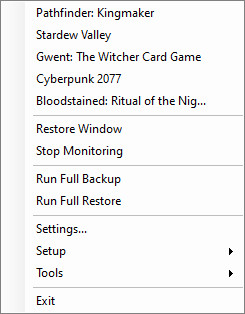
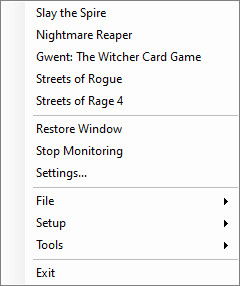
Updated out of date screenshots and some fixes

Changed region(s): [[0.1458, 0.0, 0.9917, 0.979], [0.9333, 0.7552, 0.9625, 0.8112]]

diff --git a/manual.html b/manual.html
@@ -33,7 +33,7 @@
             Game Backup Monitor v1.3.1 Manual
           </div>
           <div class="pageSectionContent">
-            <h3 class="notop">Updated May 13, 2022</h3>
+            <h3 class="notop">Updated May 14, 2022</h3>
             <h3>Important Notes:</h3>
             <p>An offline version of the manual is available <a href="https://github.com/Darthagnon/gbm-manual">here</a>.  The offline manual is kindly provided by <a href="https://github.com/Darthagnon">Darthagnon</a>.</p>
             <p>This manual may contain information about features not available in the current stable release.</p>
@@ -57,9 +57,9 @@
               <li><a href="#registry">Windows Registry Backups</a></li>
               <li><a href="#fullbackuprestore">Full Backup and Restore</a></li>
               <li><a href="#search">Search</a></li>
-              <li><a href="#import">Importing Game Configurations</a></li>
-              <li><a href="#hosting">Hosting Game Configurations</a></li>
+              <li><a href="#import">Importing Game Configurations</a></li>              
               <li><a href="#ludusavi">Ludusavi Manfiest</a></li>
+              <li><a href="#hosting">Hosting Game Configurations</a></li>
               <li><a href="#launcher">Launching Games</a></li>
               <li><a href="#customvariables">Custom Path Variables</a></li>
               <li><a href="#storevariables">Preconfigured Store Variables</a></li>
@@ -655,26 +655,7 @@
           <div class="pageSectionFooter">
             <a href="#toc">Back to Contents</a>
           </div>
-        </div>
-        <div class="pageSection">
-          <div class="pageSectionHeader">
-            <a name="hosting" id="hosting">Hosting Game Configurations</a>
-          </div>
-          <div class="pageSectionContent">            
-            <p>Game configurations can be shared with others by exporting an XML file in GBM and sharing it.</p>
-            <p>Exporting can be done from the File menu, system tray menu or the <a href="#gamemanager">Game Manager</a>.</p>
-            <p>One of the most convenient ways to share configurations with many users is hosting the XML file on a web server and sharing the link.</p>
-            <img class="manual" src="images/manual/manual_39.jpg" width="736" height="443" alt="Web Import" /><br />
-            <p>The following is some tips for sharing your own XML file from a web server.</p>
-            <ul>
-              <li>Do not use redirects, if a URL doesn't point directly at a supported file type GBM will not accept it.  This may change in a future release.</li>
-              <li>Try to use a unique file name for every list you share, GBM identifies and caches lists based on file name.</li>              
-            </ul>
-          </div>
-          <div class="pageSectionFooter">
-            <a href="#toc">Back to Contents</a>
-          </div>
-        </div>
+        </div>        
         <div class="pageSection">
           <div class="pageSectionHeader">
             <a name="hosting" id="ludusavi">Ludusavi Manifest</a>
@@ -732,6 +713,25 @@
         </div>
         <div class="pageSection">
           <div class="pageSectionHeader">
+            <a name="hosting" id="hosting">Hosting Game Configurations</a>
+          </div>
+          <div class="pageSectionContent">            
+            <p>Game configurations can be shared with others by exporting an XML file in GBM and sharing it.</p>
+            <p>Exporting can be done from the File menu, system tray menu or the <a href="#gamemanager">Game Manager</a>.</p>
+            <p>One of the most convenient ways to share configurations with many users is hosting the XML file on a web server and sharing the link.</p>
+            <img class="manual" src="images/manual/manual_39.jpg" width="355" height="152" alt="Web Import" /><br />
+            <p>The following is some tips for sharing your own XML file from a web server.</p>
+            <ul>
+              <li>Do not use redirects, if a URL doesn't point directly at a supported file type GBM will not accept it.  This may change in a future release.</li>
+              <li>Try to use a unique file name for every list you share, GBM identifies and caches lists based on file name.</li>              
+            </ul>
+          </div>
+          <div class="pageSectionFooter">
+            <a href="#toc">Back to Contents</a>
+          </div>
+        </div>
+        <div class="pageSection">
+          <div class="pageSectionHeader">
             <a name="launcher" id="launcher">Launching Games</a>
           </div>
           <div class="pageSectionContent"> 
@@ -744,7 +744,7 @@
                 <li>If Session Tracking data is available, the tray menu will display up to five recently played games you can select to launch.</li>
               </ol>
             </p>
-            <img class="manual" src="images/manual/manual_27.jpg" width="245" height="314" alt="Tray Menu Example" />            
+            <img class="manual" src="images/manual/manual_27.jpg" width="240" height="286" alt="Tray Menu Example" />            
             <h3>Launch Configuration</h3>
             <p>GBM will usually be able to launch any monitored game that has been detected at least once without any extra configuration.  Advanced configuration options are also provided for fine tuning and to work around any problems that may be encountered.</p>            
             <p>The launch settings for any game can be modified from the Game Manager, by clicking the <img class="manualbutton" src="images/manual/buttons/frmGameManager_Advanced.png" width="16" height="16" alt="Tools" /> (Advanced) button and choosing "Launch Settings..." to open "Launch Configuration".</p>
@@ -857,7 +857,7 @@
                 <li>Restart GBM and it will create a single set of variables.</li>
               </ol>
             </p>
-            <p>GBM can fail to automatically configure variables, read the <a href="#customvariables">Custom Path Variables</a> section to create or edit the required variables using the information below.</p>
+            <p>GBM can fail to automatically configure variables.  Read the <a href="#customvariables">Custom Path Variables</a> section, then create or edit the required variables using the information below.</p>
             <h3>Steam</h3>
             <p>GBM can detect SteamID3 incorrectly if multiple steam accounts have been used on your PC.  If backups are failing in Steam Cloud locations this may be the reason.</p>
               <ul>
